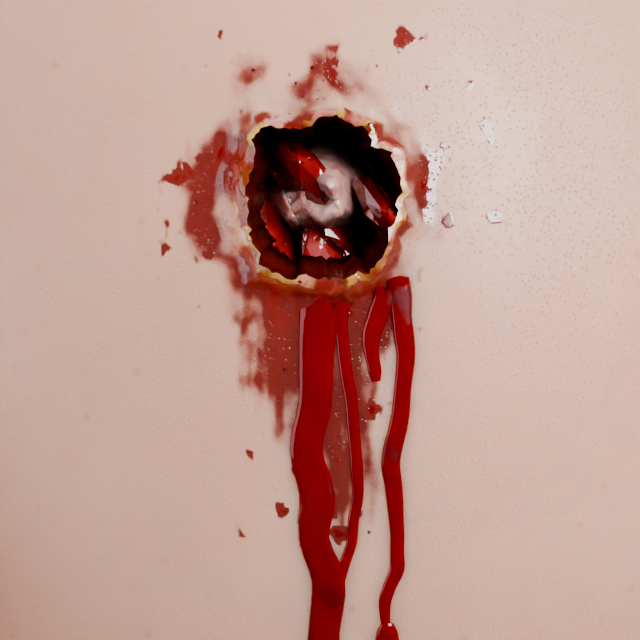
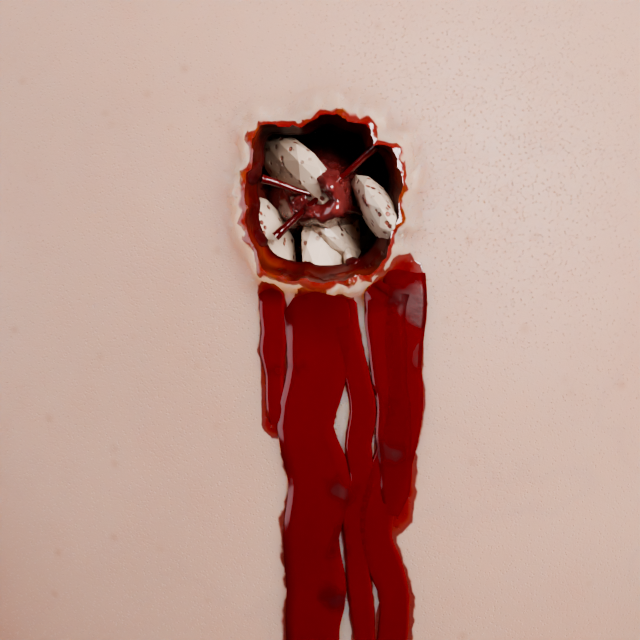
WIP: head round-3 re-renders, body fix round 1
Claude-Session: https://claude.ai/code/session_0186CV4JXPBpxwWrzN3Er8XW

Changed region(s): [[0.25, 0.0625, 0.7188, 1.0], [0.5938, 0.0312, 0.6562, 0.0938], [0.375, 0.6875, 0.4062, 0.7188]]

diff --git a/blender/gore_head/gore.py b/blender/gore_head/gore.py
@@ -1224,6 +1224,9 @@ def _build_blunt():
     # (only the torn margin itself is wet, <= ~1.5 mm)
     blood = blood.max(t.smooth(0.0015, 0.0, -cut_split) * split_on * (0.55 + 0.45 * bleed))
     blood = blood.max(t.smooth(0.002, 0.0, d_cr) * cr * soft_cr * (0.6 + 0.4 * bleed))
+    # the broken plates of a crushed area lie in blood and pulp
+    blood = blood.max(is_bone * cr * t.smooth(R_cr * 1.8 + 0.006, R_cr * 0.8, c.rho)
+                      * (0.55 + 0.4 * t.smooth(-0.3, 0.3, t.noise(c.np * 180.0, detail=2.0))))
     # blood seeps into the sclera of a crushed orbit
     blood = blood.max(c.is_layer(LAYER_EYE) * cr * 0.7 * t.smooth(0.05, 0.02, c.rho + nl * 0.006))
     # abraded, crushed margins (2-4 mm, dry brown-red, patchy)
@@ -1445,7 +1448,8 @@ def _build_blast():
     # soot, searing and powder stippling on the skin around the crater
     soot = is_skin * on * t.smooth(R * 2.2, R * 0.9, c.rho + t.noise(c.np * 80.0, detail=2.0) * R * 0.5) \
         * (0.45 + 0.55 * t.noise(c.np * 500.0, detail=2.0, signed=False))
-    sear = is_skin * on * t.smooth(R * 0.35, 0.0, d_out + t.noise(c.np * 200.0) * 0.003) * 0.5
+    sear = is_skin * on * t.smooth(R * 0.3, 0.0, d_out + t.noise(c.np * 200.0) * 0.004) * 0.3 \
+        * (0.4 + 0.6 * t.smooth(-0.3, 0.4, t.noise(c.np * 120.0, detail=2.0)))
     vd = t.voronoi(c.np, 2200.0, 'F1', 1.0)
     dcell = t.sep(t.vmath('ADD', t.out(vd, 'Color'), (0, 0, 0)))[0]
     dots = t.smooth(0.34, 0.12, t.out(vd, 'Distance')) * dcell.lt(0.35 * t.smooth(R * 1.9, R, c.rho)).max(0.0)
@@ -1907,6 +1911,7 @@ def _build_blood():
     # runs get their heavy teardrop head below
     rad = rad * (0.4 + 0.6 * t.smooth(1.0, 0.86, tt))
     curves = t.out(t.node('GeometryNodeSetCurveRadius', {'Curve': curves, 'Radius': rad}))
+    curves = t.store(curves, "d_rad", rad)
     profile = t.out(t.node('GeometryNodeCurvePrimitiveCircle', {'Resolution': 10, 'Radius': 1.0}, mode='RADIUS'))
     radius = t.out(t.node('GeometryNodeInputRadius'))
     # (open ends: the ribbon is flattened onto the skin, a cap at its start
@@ -1928,6 +1933,7 @@ def _build_blood():
     beads = t.out(t.node('GeometryNodeRealizeInstances', {'Geometry': t.out(beads)}))
     beads = t.out(t.node('GeometryNodeSetPosition', {'Geometry': beads, 'Offset': t.vec(0.0, 0.0, -1.0) * (dw * 0.8)}))
     beads = t.store(beads, "d_flat", 0.3)
+    beads = t.store(beads, "d_rad", bead_s * 1.2)
     beads = t.store(beads, "d_cap", 0.00032)
     blood = _join(t, tubes, beads)
     # flatten onto the skin: blood runs as a flat ribbon 0.1-0.4 mm thick with
@@ -1938,10 +1944,14 @@ def _build_blood():
     n = _nearest_normal(t, surface, p)
     d = p - q
     hn = d.dot(n)
-    h_new = (hn.max(0.0) * t.attr("d_flat")).min(t.attr("d_cap"))
+    # a domed film: height = cap x (height in the tube / tube radius), so the
+    # cross-section is a low rounded lens thinning to nothing at the edges
+    # (a flat top with a hard edge reads as red tape)
+    rel = (hn.max(0.0) / t.attr("d_rad").max(0.0002)).clamp()
+    h_new = t.attr("d_cap") * rel ** 0.8
     # film thickness for the shader (Beer-Lambert colour): the edges of a run
     # are a thin translucent film, its middle and its head thick and dark
-    blood = t.store(blood, "gore_bthin", 1.0 - (h_new / 0.00022).clamp())
+    blood = t.store(blood, "gore_bthin", 1.0 - (h_new / 0.00022).clamp() ** 0.7)
     flat = q + (d - n * hn) + n * (h_new + 0.00004)
     blood = t.out(t.node('GeometryNodeSetPosition', {'Geometry': blood, 'Position': flat}))
     blood = t.out(t.node('GeometryNodeSetMaterial', {'Geometry': blood, 'Material': t.inp("Material")}))
@@ -2016,7 +2026,7 @@ def _build_fragments():
         sz = s.sqrt() * (sz0 + (sz1 - sz0) * rs ** 2.5)
         rot = t.out(t.node('FunctionNodeEulerToRotation',
                            {'Euler': t.rand((0, 0, 0), (TAU, TAU, TAU), idx, 15 + kid, 'FLOAT_VECTOR')}))
-        chip = t.out(t.node('GeometryNodeMeshIcoSphere', {'Radius': 1.0, 'Subdivisions': 2}))
+        chip = t.out(t.node('GeometryNodeMeshIcoSphere', {'Radius': 1.0, 'Subdivisions': 1}))
         # plates of both tables: ~2-4 mm thick however wide the chip is
         thick = (sz * 0.45).min(0.0018)
         inst = t.node('GeometryNodeInstanceOnPoints', {'Points': g, 'Instance': chip, 'Rotation': rot,
@@ -2027,7 +2037,10 @@ def _build_fragments():
         t.links.new(p.s, jn.inputs[0])
     g = t.out(t.node('GeometryNodeRealizeInstances', {'Geometry': t.out(jn)}))
     # break up the ico-sphere facets: irregular broken plates
-    jit = t.noise(t.pos() * 900.0, detail=2.0, color=True) * 0.0003
+    # (angular, broken plates: a low-poly base and a strong jitter; smooth
+    # ellipsoids read as almonds)
+    jit = t.noise(t.pos() * 900.0, detail=2.0, color=True) * 0.0005 \
+        + t.noise(t.pos() * 2600.0, detail=1.0, color=True) * 0.00015
     g = t.out(t.node('GeometryNodeSetPosition', {'Geometry': g, 'Offset': jit}))
     g = t.out(t.node('GeometryNodeSetShadeSmooth', {'Mesh': g, 'Shade Smooth': False}))
     g = t.out(t.node('GeometryNodeSetMaterial', {'Geometry': g, 'Material': t.inp("Material")}))
@@ -2177,7 +2190,7 @@ CLOT_DENSITY = 30000.0        # blobs per m^2 of wall at factor 1
 CLOT_DENSITY_K = {"bullet": 2.5, "exit": 1.3, "slash": 0.9, "blunt": 1.2, "blast": 0.9}
 # (none in incised cuts: a knife divides everything in its path -- tissue
 # bridges are the forensic sign of a blunt laceration, not of a cut)
-STRAND_P = {"blunt": 0.007, "exit": 0.005, "blast": 0.006}
+STRAND_P = {"blunt": 0.007, "exit": 0.0025, "blast": 0.006}
 # extra blood on the wound walls per kind: a bullet track is a narrow tube
 # lined with blood and clot (no clean yellow fat), an exit is soaked
 WALL_BLOOD = {"bullet": 0.85, "exit": 0.6, "blast": 0.6}

diff --git a/blender/gore_head/materials.py b/blender/gore_head/materials.py
@@ -1217,8 +1217,8 @@ def _blood_material(g):
     # thin films dry first, from the edges inward
     a = (age + (n - 0.5) * 0.4 * age * (1.0 - age) + thin * 0.35 * age).clamp()
     fresh = (thick + (n_lo - 0.5) * 0.25).clamp().ramp([
-        (0.0, (0.33, 0.016, 0.022)), (0.3, (0.27, 0.007, 0.014)), (0.65, (0.16, 0.004, 0.007)),
-        (1.0, (0.10, 0.002, 0.0035))])
+        (0.0, (0.33, 0.016, 0.022)), (0.3, (0.24, 0.006, 0.012)), (0.65, (0.12, 0.003, 0.005)),
+        (1.0, (0.07, 0.0015, 0.0025))])
     old = t.mix(n, (0.022, 0.008, 0.006), (0.045, 0.014, 0.009))
     old = t.mix(thin * 0.6, old, (0.10, 0.03, 0.02))            # dried thin film: brown stain
     col = t.mix(a, fresh, old)
@@ -1235,7 +1235,9 @@ def _blood_material(g):
     h = clot * 0.3 * (1.0 - a) + t.noise(p, 4000.0) * a * 0.3 + fclot * t.noise(p, 700.0, 2.0) * 0.6
     bsdf = t.principled({
         'Base Color': col, 'Roughness': rough.max(0.06), 'IOR': 1.36, 'Specular IOR Level': 0.5,
-        'Subsurface Weight': (1.0 - a) * 0.45 * (0.4 + 0.6 * thin), 'Subsurface Radius': (1.0, 0.02, 0.02),
+        # (thick blood barely scatters: a strong red subsurface glow makes
+        # dark pooled blood read as bright red wax)
+        'Subsurface Weight': (1.0 - a) * (0.08 + 0.4 * thin), 'Subsurface Radius': (1.0, 0.02, 0.02),
         'Subsurface Scale': 0.001, 'Subsurface IOR': 1.36,
         'Coat Weight': (1.0 - a * 0.85) * (0.3 + 0.7 * wet) * (1.0 - fclot * 0.92), 'Coat IOR': 1.36,
         'Coat Roughness': 0.06 + (1.0 - wet) * 0.2 + a * 0.3 + fclot * 0.2,
